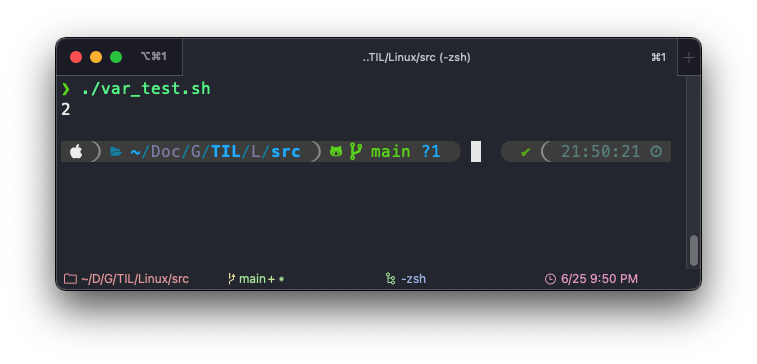
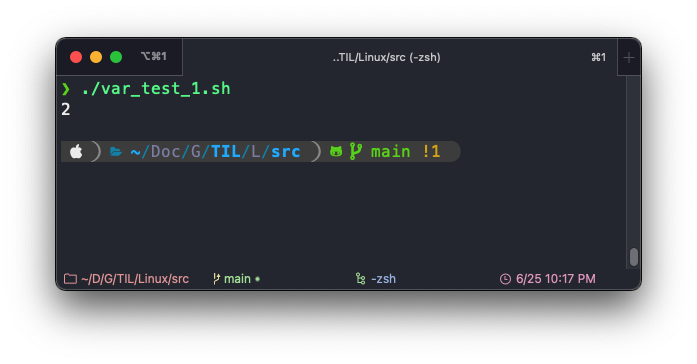
코드에 파일명 추가

diff --git a/Linux/bash_정수형_변수_증감.md b/Linux/bash_정수형_변수_증감.md
@@ -35,8 +35,10 @@
 정확한 사용 방법은 아래 예시를 보자.
     
 ## 정수형 변수 증가/감소 활용 예시
-    
+
 ### 계산 결과를 출력(`echo`)
+
+    # var_test_1.sh
 
     #!/usr/bin/env bash
     echo $((3-1))   # 예상 결과 : 2
@@ -51,6 +53,8 @@
 
 쉘 스크립트에서는 위에서 설명한 것과 같이 이중 괄호를 활용해서 정수형 변수를 다루어야 하는데, 방법은 아래와 같다.
 
+    # var_test_2.sh
+
     #!/usr/bin/env bash
     # 1 부터 5까지 반복문 외부의 변수(count)를 반복문 내부에서 증가시켜 출력해보자.
     count=1
@@ -63,6 +67,8 @@
 ![결과 확인](images/bash_integer_2.png)
 
 또는 아래와 같은 방법들로도 사용이 가능하니 편한 방법으로 사용하면 된다.
+
+    # var_test_3.sh
 
     #!/usr/bin/env bash
     # 1 부터 5까지 반복문 외부의 변수(count)를 반복문 내부에서 증가시켜 출력해보자.
